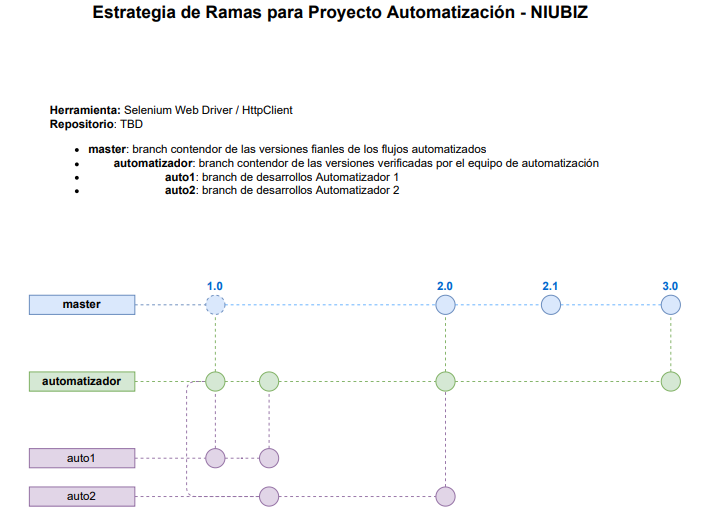
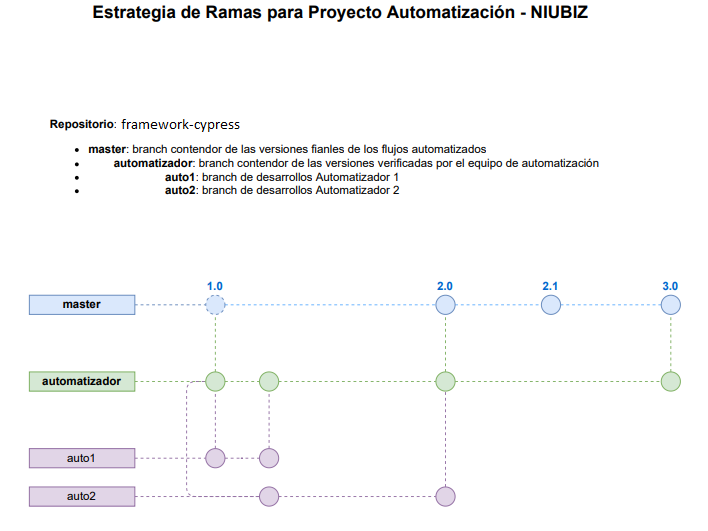
Documentación Update

Changed region(s): [[0.0621, 0.1808, 0.404, 0.2411]]

diff --git a/src/guide/documentacion.md b/src/guide/documentacion.md
@@ -162,8 +162,9 @@ Durante todo el proceso de atención de automatización se cuenta con el soporte
 
 #### Datos del repositorio
 
-Nombre Repositorio:    test-automation
-Acceso al repositorio: TBD 
+Nombre Repositorio: framework-cypress
+
+Acceso al repositorio: https://bitbucket.org/VisaNet_TI/framework-cypress/src/master/
 
 #### Características del repositorio
 
